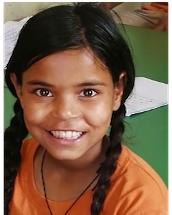
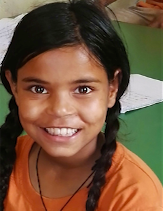
Added student profiles on index

diff --git a/index.html b/index.html
@@ -58,8 +58,10 @@
   <hr class="mt-1 mb-2"> -->
   <div class="container mt-2 mb-2">
     <div class="row justify-content-center">
+
+      <!-- Sushma Pariyar -->
       <a href="students/sushma-pariyar.html">
-        <div class="card border-0">
+        <div class="card border-0 mr-3">
           <img class="card-img" src="images/students/pariyar3/Sushma2.png" alt="Sushma">
           <div class="card-img-overlay text-white d-flex flex-column justify-content-end">
             <h5 class="card-title">Sushma - 8 years old</h5>
@@ -73,46 +75,40 @@
         </div>
       </a>
 
-    </div>
-  </div>
-
-  <!-- <div class="card-deck justify-content-center align-items-center">
-      <div class="card justify-content-center align-items-center">
-        <img class="card-img-top" src="images/students/pariyar3/Sushma2.png" alt="Sushma">
-        <div class="card-body">
-          <h5 class="card-title">Sushma</h5>
-          <p class="card-text">
-            Sushma lives in a slum with her aunt and uncle because her father, an alcoholic, abandoned her family and her mother,
-            also an alcoholic, was physically abusive. Despite the trauma, Sushma is always smiling and friendly in class.
-          </p>
-          <div class="card-footer">
-            <small class="text-muted">
-              Read Sushma's story
-            </small>
+      <!-- Yogesh Sunwar -->
+      <a href="students/yogesh-sunwar.html">
+        <div class="card border-0 mr-3">
+          <img class="card-img" src="images/students/sunwar/Yogesh.png" alt="Yogesh">
+          <div class="card-img-overlay text-white d-flex flex-column justify-content-end">
+            <h5 class="card-title">Yogesh - 4 years old</h5>
+            <h6 class="card-text">
+              Yogesh's father, a labourer, and mother, a housewife, are too poor to support his education.
+            </h6>
+          </div>
+          <div class="d-flex overlay text-white justify-content-center align-items-center">
+            Read Yogesh's story
           </div>
         </div>
-      </div>
+      </a>
 
-      <div class="card justify-content-center align-items-center">
-        <a href="students/yogesh-sunwar.html">
-          <img class="card-img-top" src="images/students/sunwar/Yogesh.png" alt="Yogesh">
-        </a>
-        <div class="card-body">
-          <h5 class="card-title">Yogesh</h5>
-          <p class="card-text">
-            Sushma, 8 years old, lives in a slum with her aunt and uncle because her father, an alcoholic, abandoned her family and her mother,
-            also an alcoholic, was physically abusive. Despite the trauma, Sushma is always smiling and friendly in class.
-          </p>
-          <a href="students/yogesh-sunwar.html">
-            <div class="card-footer">
-              <small class="text-muted">
-                Read Yogesh's story
-              </small>
-            </div>
-          </a>
+      <!-- Rubina Pariyar -->
+      <a href="students/rubina-pariyar.html">
+        <div class="card border-0">
+          <img class="card-img" src="images/students/pariyar1/Rubina2.png" alt="Rubina">
+          <div class="card-img-overlay text-white d-flex flex-column justify-content-end">
+            <h5 class="card-title">Rubina - 9 years old</h5>
+            <h6 class="card-text">
+              Rubina's father is a painter and her mother left the family to work abroad. Her goal is to be a doctor.
+            </h6>
+          </div>
+          <div class="d-flex overlay text-white justify-content-center align-items-center">
+            Read Rubina's story
+          </div>
         </div>
-      </div>
-  </div> -->
+      </a>
+
+    </div>
+  </div>
 
   <div class="carousel slide" data-ride="carousel" id="carouselExampleSlidesOnly" >
     <div class="carousel-inner">

diff --git a/main.css b/main.css
@@ -69,15 +69,10 @@ body {
 .card:hover .overlay {
   opacity: 0.7;
 }
-/* .card:hover .card-img {
-  opacity: 0.3;
-} */
 .card-img {
-  width: 350px;
+  height: 400px;
+  width:auto;
 }
-/* .card-img-overlay {
-  padding-bottom: 10px;
-} */
 
 .footer {
   background-color: #344a9f;
